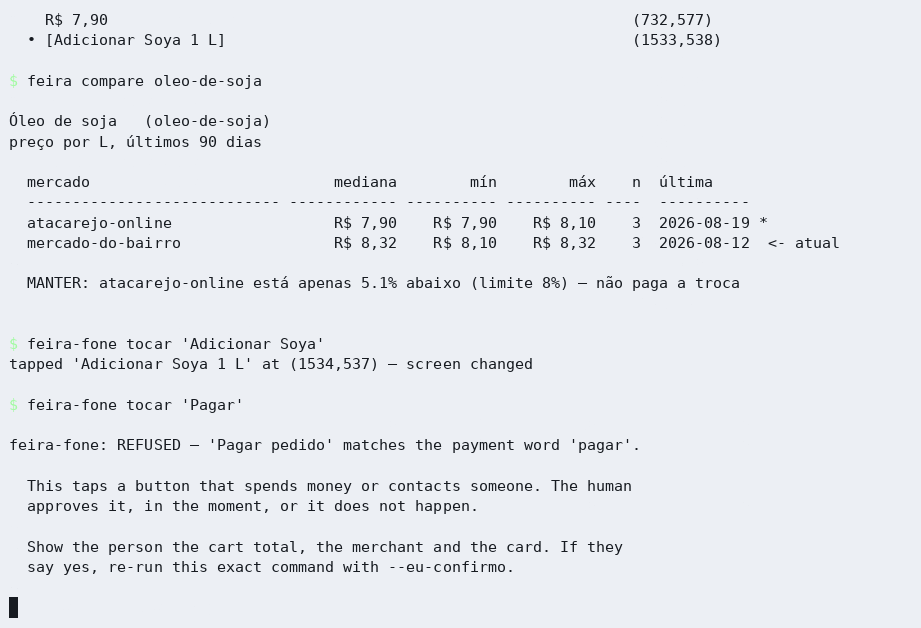
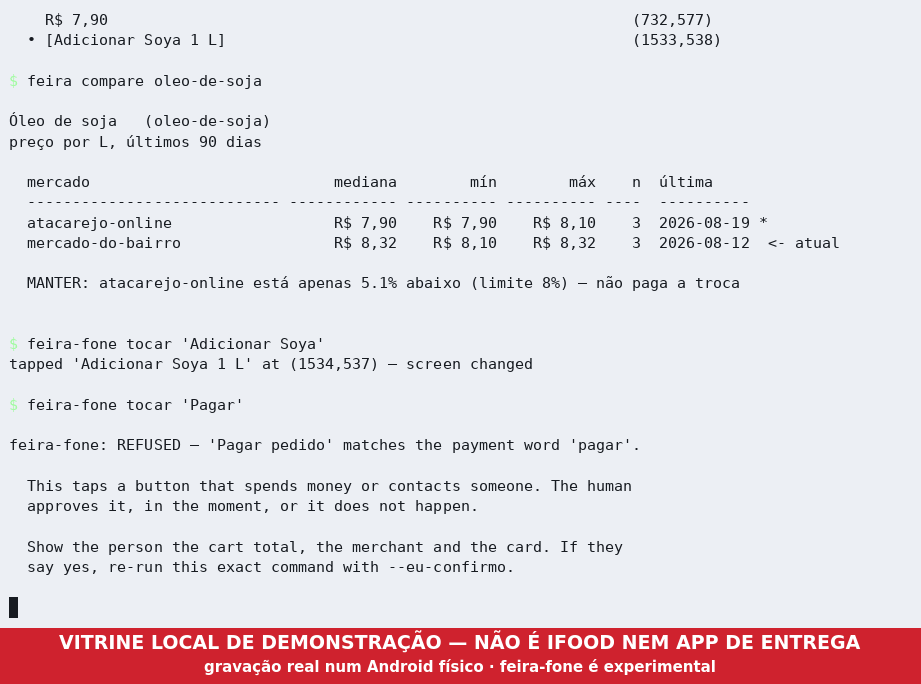
fix: gravar a ressalva dentro do quadro, e parar de vender o não-feito
Quatro achados bloqueantes do portão adversarial (família diferente).
Todos legítimos.

1. A ressalva da vitrine morava ao lado da imagem. GIF é print: ele é
   recortado, incorporado e recompartilhado sem uma linha do texto à
   volta, e esta peça mostra um aparelho real sendo conduzido por uma
   compra — a coisa mais fácil de ler errado no repositório. Agora são
   56 px de tarja vermelha em TODOS os quadros: "VITRINE LOCAL DE
   DEMONSTRAÇÃO — NÃO É IFOOD NEM APP DE ENTREGA", com "gravação real
   num Android físico · feira-fone é experimental" embaixo. Aplicada
   pelo make, não à mão, então não tem como esquecer numa regravação.

2. A manchete dizia, no presente, que o agente pesquisa preço dentro dos
   aplicativos de entrega. Isso não foi demonstrado contra aplicativo
   nenhum — a demo roda contra a vitrine. Agora ela abre com "para onde
   este projeto vai" e traz uma tabela de duas linhas: o que já existe
   (lê a tela, decide, monta o carrinho, recusa o pagamento, num Android
   físico) e o que ainda não (fazer isso dentro de um app de entrega
   real). "Experimental" sozinho não cobria: para muita gente significa
   "funciona com ressalvas", não "a demo não usa o produto que a frase
   nomeia".

3. O cartão social afirmava "lê o preço dentro do app do mercado" — e
   cartão social viaja sozinho, sem parágrafo que o corrija. Virou "lê a
   tela do seu Android e decide", que é o que a gravação mostra. E o
[…]

diff --git a/README.md b/README.md
@@ -10,18 +10,29 @@
 
 # feira
 
-**Um agente que pesquisa preço dentro dos aplicativos de entrega, no seu
-celular, monta o carrinho — e para. Você confere e finaliza a compra com o dedo,
-no app.**
+**Para onde este projeto vai: um agente que pesquisa preço dentro dos
+aplicativos de entrega, no seu celular, monta o carrinho — e para. Você confere
+e finaliza a compra com o dedo, no app.**
 
 Ele não para porque não conseguiu ir adiante. Para porque essa é a fronteira, e
 ela é código: tocar num botão de pagamento é recusado, e no servidor MCP a
 ferramenta de pagar **não existe**.
 
-> **Estado real, hoje:** o `feira-fone` é **experimental** — exercitado numa
-> casa, num aparelho, sem release publicada e sem lista de aplicativos
-> suportados. As camadas de baixo (o método e o CLI) são estáveis e funcionam
-> sozinhas. Leia isto antes de esperar um botão que ainda não existe.
+**O que já existe, e o que ainda não** — vale ler as duas linhas antes de
+esperar um botão:
+
+| | |
+|---|---|
+| ✅ hoje | num Android físico, o `feira-fone` lê a tela, decide, monta o carrinho e recusa o pagamento — foi assim que a demo abaixo foi gravada, contra uma **vitrine de demonstração** |
+| ⏳ ainda não | fazer isso **dentro de um aplicativo de entrega real**. Nenhum foi automatizado, e não há lista de apps suportados |
+
+O `feira-fone` é **experimental**: uma casa, um aparelho, sem release. As camadas
+de baixo — o método e o CLI — são **estáveis**.
+
+> **Sem celular nenhum, o projeto já serve para alguma coisa:** o CLI compara o
+> que a sua casa pagou, normalizado por quilo ou litro, e diz se vale trocar de
+> mercado. É a parte que economiza dinheiro hoje, sem hardware e sem
+> automação — [pule direto para ela](#o-cli-sem-celular-nenhum).
 
 <a href="#a-demo">Ver funcionando →</a> &nbsp;·&nbsp;
 <a href="#o-que-precisa-para-o-ciclo-completo">O que precisa</a> &nbsp;·&nbsp;
@@ -35,7 +46,7 @@ ferramenta de pagar **não existe**.
 Uma gravação de verdade: um celular Android de verdade, lendo a tela de verdade,
 e recusando o pagamento de verdade no fim.
 
-![Terminal: feira-fone dispositivos mostra um moto g06 conectado; feira-fone tela lê a vitrine e imprime os preços — óleo Liza 900 ml a R$ 7,49 e óleo Soya 1 L a R$ 7,90; feira compare oleo-de-soja mostra que o de 900 ml sai a R$ 8,32 por litro e o de 1 L a R$ 7,90, com veredito MANTER porque a diferença de 5,1% fica abaixo do limite de 8%; feira-fone tocar Adicionar Soya toca o botão e confirma que a tela mudou; feira-fone tocar Pagar é RECUSADO porque o texto casa com a palavra de pagamento.](docs/assets/rendered/demo-fone.gif)
+![Terminal: feira-fone dispositivos mostra um moto g06 conectado; feira-fone tela lê a vitrine e imprime os preços — óleo Liza 900 ml a R$ 7,49 e óleo Soya 1 L a R$ 7,90; feira compare oleo-de-soja mostra que o de 900 ml sai a R$ 8,32 por litro e o de 1 L a R$ 7,90, com veredito MANTER porque a diferença de 5,1% fica abaixo do limite de 8%; feira-fone tocar Adicionar Soya toca o botão e confirma que a tela mudou; feira-fone tocar Pagar é RECUSADO porque o texto casa com a palavra de pagamento. Uma tarja vermelha no rodapé de todos os quadros avisa que a vitrine é local e não é um aplicativo de entrega.](docs/assets/rendered/demo-fone.gif)
 
 O ciclo inteiro, em cinco comandos:
 

diff --git a/docs/assets/MANIFEST.md b/docs/assets/MANIFEST.md
@@ -34,8 +34,8 @@ legível no `git diff`.
 | `social-preview.png` | 1280×640 | ~68 KB | ≤ 1024 KB (teto do GitHub) | `make assets` |
 | `demo.gif` | 921×628, 45 quadros | ~78 KB | ≤ 900 KB | `make demo` |
 | `demo.png` | 921×628 | ~45 KB | ≤ 300 KB | `make assets` (último quadro do GIF) |
-| `demo-fone.gif` | 921×628, 70 quadros | ~281 KB | ≤ 900 KB | `make demo-fone` (exige celular) |
-| `demo-fone.png` | 921×628 | ~20 KB | ≤ 300 KB | `make assets` (último quadro do GIF) |
+| `demo-fone.gif` | 921×684, 70 quadros | ~249 KB | ≤ 900 KB | `make demo-fone` (exige celular) |
+| `demo-fone.png` | 921×684 | ~25 KB | ≤ 300 KB | `make assets` (último quadro do GIF) |
 
 Os orçamentos são verificados por `scripts/check-assets.py`, que **quebra o CI**
 se uma peça engordar. O do GIF é bem mais apertado que o formato permite porque
@@ -76,6 +76,14 @@ casa real fora dela.
 O serial do aparelho é mascarado na gravação: ele é alcançado por uma rede
 privada, e esse endereço é infraestrutura, não algo que um README precise
 publicar.
+
+**A ressalva é gravada dentro do quadro, não ao lado dele.** Os 56 px de tarja
+vermelha no rodapé de *todos* os quadros — "VITRINE LOCAL DE DEMONSTRAÇÃO — NÃO
+É IFOOD NEM APP DE ENTREGA" — existem porque GIF é print: ele é recortado,
+incorporado e recompartilhado sem uma linha do texto à volta. Como a peça mostra
+um aparelho real sendo conduzido por uma compra, é a coisa mais fácil de ler
+errado no repositório inteiro, e a tarja é a única parte da ressalva que viaja
+junto. Ela é aplicada pelo `make`, não à mão.
 
 Para refazer: sirva `docs/assets/source/` em HTTP, abra a vitrine no aparelho e
 rode `make demo-fone`. As pré-condições estão no cabeçalho do `demo-fone.sh`, e
